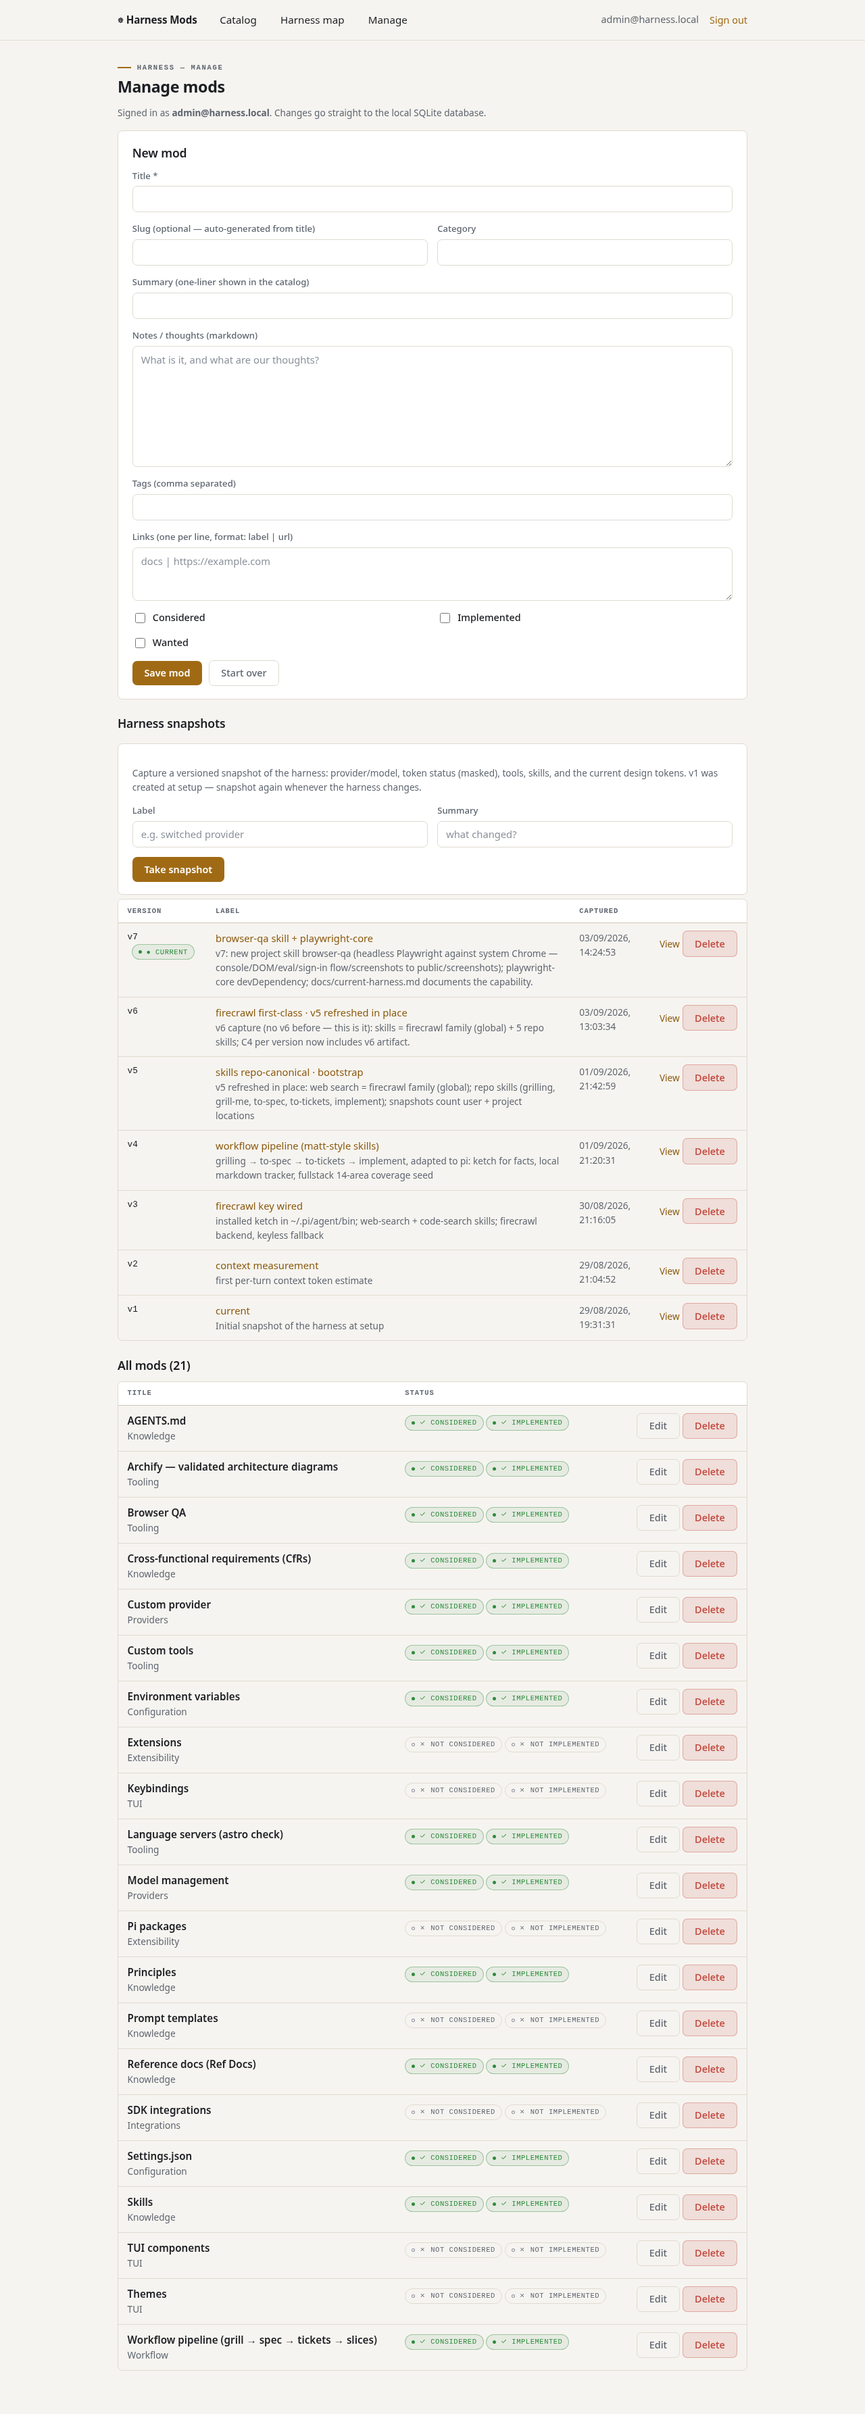
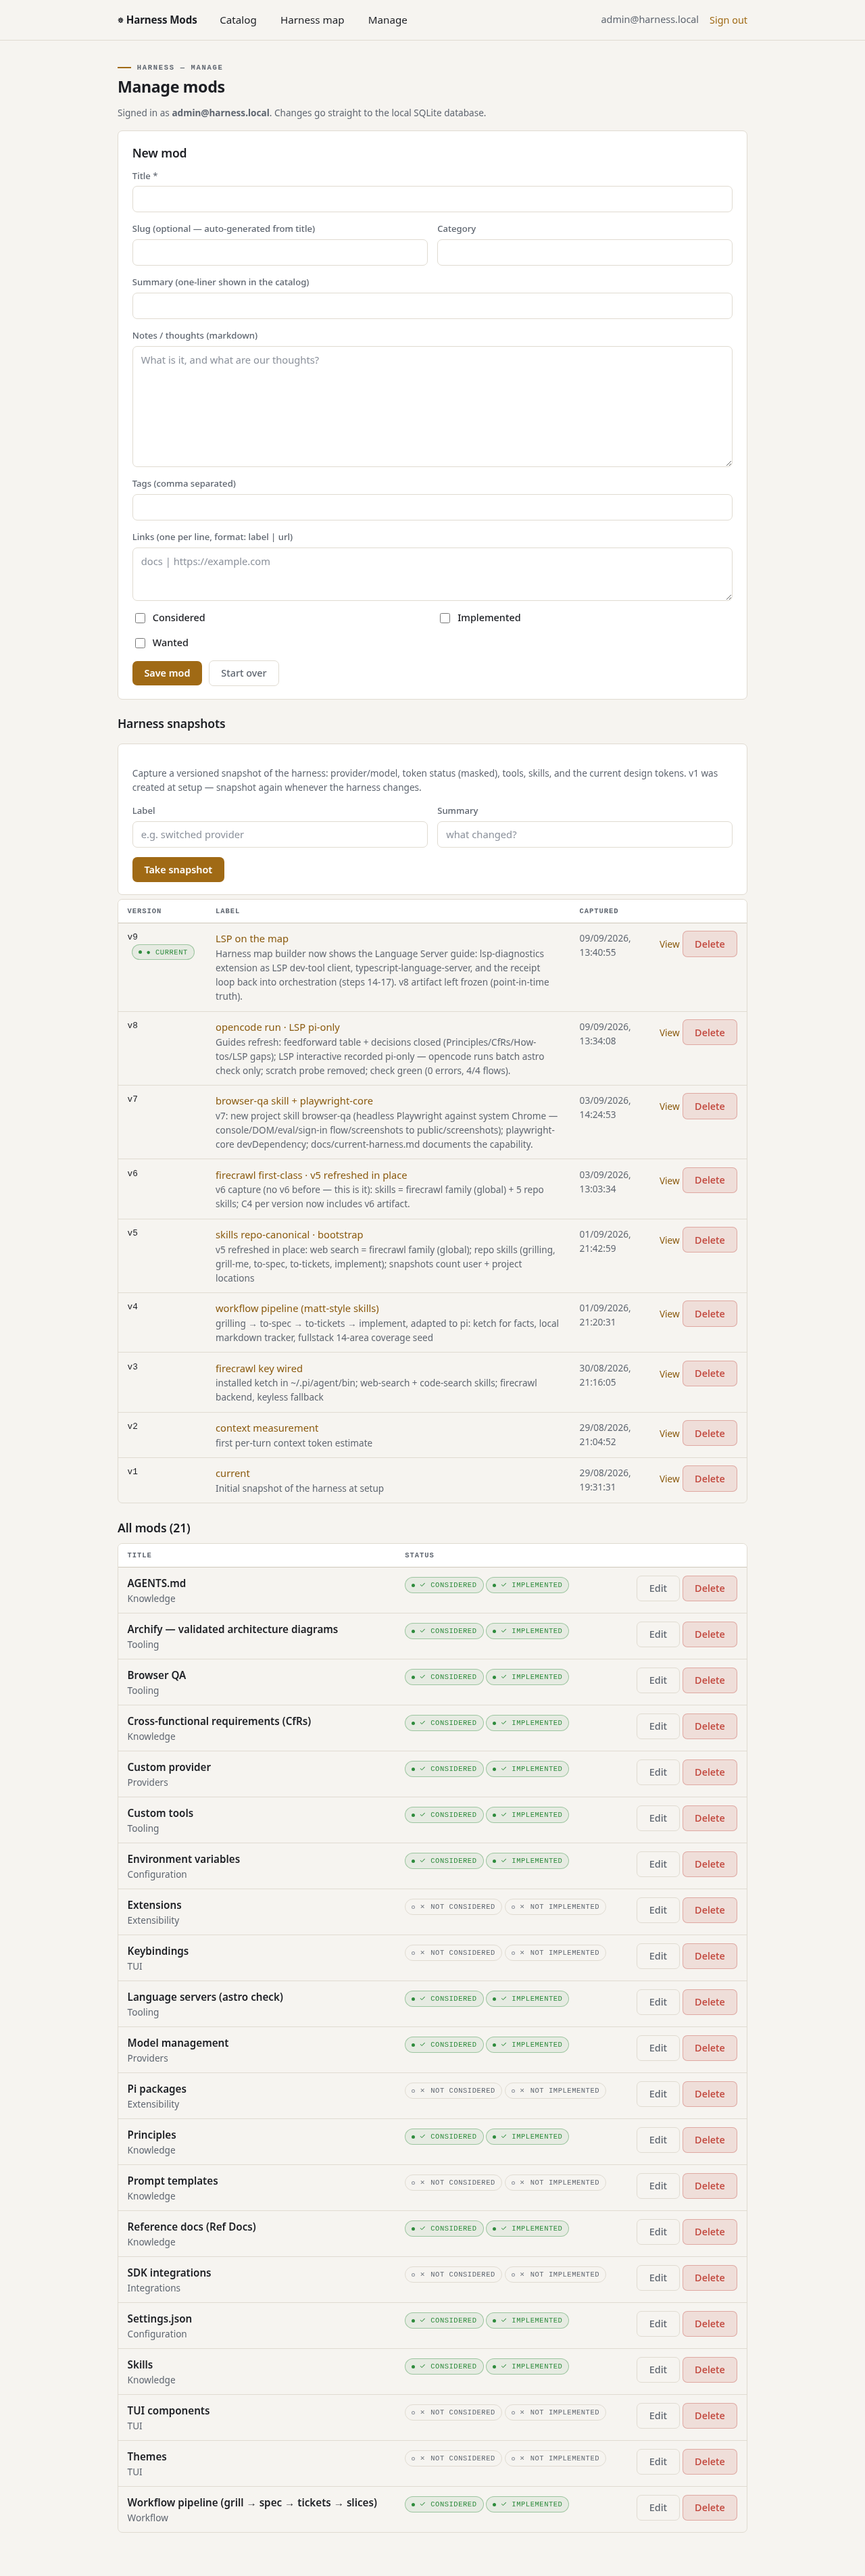
v9 harness, LSP added

diff --git a/src/lib/c4.ts b/src/lib/c4.ts
@@ -128,6 +128,12 @@ export function buildC4Graph(snapshot: any, palette: C4Palette = C4_PALETTE, hlL
   add(inside, 'MODEL', 'ORCH', 'reply', { cate: 'model' });
   add(inside, 'ORCH', 'TUI', 'streamed reply');
   add(inside, 'TUI', 'SESS', 'appends JSONL', { dashed: true });
+  // LSP guide loop (pi-only): the extension is the LSP "development tool"
+  // (client); the language server holds the type intelligence for the agent.
+  add(inside, 'TOOLS', 'EXT', 'tool results · hook', { cate: 'lsp' });
+  add(inside, 'EXT', 'LSP', 'didOpen · didChange sync', { cate: 'lsp' });
+  add(inside, 'LSP', 'EXT', 'publishDiagnostics push', { cate: 'lsp' });
+  add(inside, 'EXT', 'ORCH', 'LSP receipt · self-correct', { cate: 'lsp' });
   outside.push({ a: 'MODS', b: 'FILES', label: 'reads · snapshots', cate: 'dim', dashed: true });
   outside.push({ a: 'MODS', b: 'PI', label: 'tracks config + token status', cate: 'dim', dashed: true });
 
@@ -135,7 +141,7 @@ export function buildC4Graph(snapshot: any, palette: C4Palette = C4_PALETTE, hlL
   // all edges in declaration order → linkStyle index = array position + 1 (Dev edge sits first)
   const order: Edge[] = [...inside, ...outside];
 
-  const cateColor: Record<string, string> = { tool: green, search: sky, model: sky, auth: red, dim };
+  const cateColor: Record<string, string> = { tool: green, lsp: green, search: sky, model: sky, auth: red, dim };
   const styleLines: string[] = [];
   for (const [cate, color] of Object.entries(cateColor)) {
     const inds = order.map((e, i) => (e.cate === cate ? i + 1 : 0)).filter(Boolean);
@@ -177,10 +183,12 @@ export function buildC4Graph(snapshot: any, palette: C4Palette = C4_PALETTE, hlL
       direction LR
       ASM["⎘ Context assembler<br/>base prompt · project instructions<br/>skills catalog · extension hooks"]:::container
     end
-    subgraph LOOP["3 · AGENT LOOP — tools${hasSearch ? ' · web' : ''} · model"]
+    subgraph LOOP["3 · AGENT LOOP — tools · lsp${hasSearch ? ' · web' : ''} · model"]
       direction LR
       ORCH["◎ Agent orchestration<br/>the core loop"]:::container
       TOOLS["⚙ Tools<br/>read · bash · edit · write"]:::container
+      EXT["⛭ LSP client · dev tool<br/>lsp-diagnostics · pi-only<br/>hooks edit · write · bash"]:::container
+      LSP["⚙ TypeScript language server<br/>typescript-language-server --stdio<br/>types · diagnostics"]:::container
 ${wsNode}      MODEL["◈ Model provider<br/>routes prompts to an LLM"]:::container
       AUTH["🔑 Auth / credentials<br/>token on every prompt"]:::container
       MS["🗎 models-store.json<br/>provider/model catalog"]:::file

diff --git a/docs/current-harness.md b/docs/current-harness.md
@@ -32,7 +32,7 @@ record, don't copy them)._
 4. **Reply & persist** — the streamed reply returns to the TUI and the JSONL
    log is appended.
 
-The full numbered cycle (1–13) is drawn in the C4 pipeline on `/harness`.
+The full numbered cycle (1–17) is drawn in the C4 pipeline on `/harness`.
 
 ## Context size & caching
 
